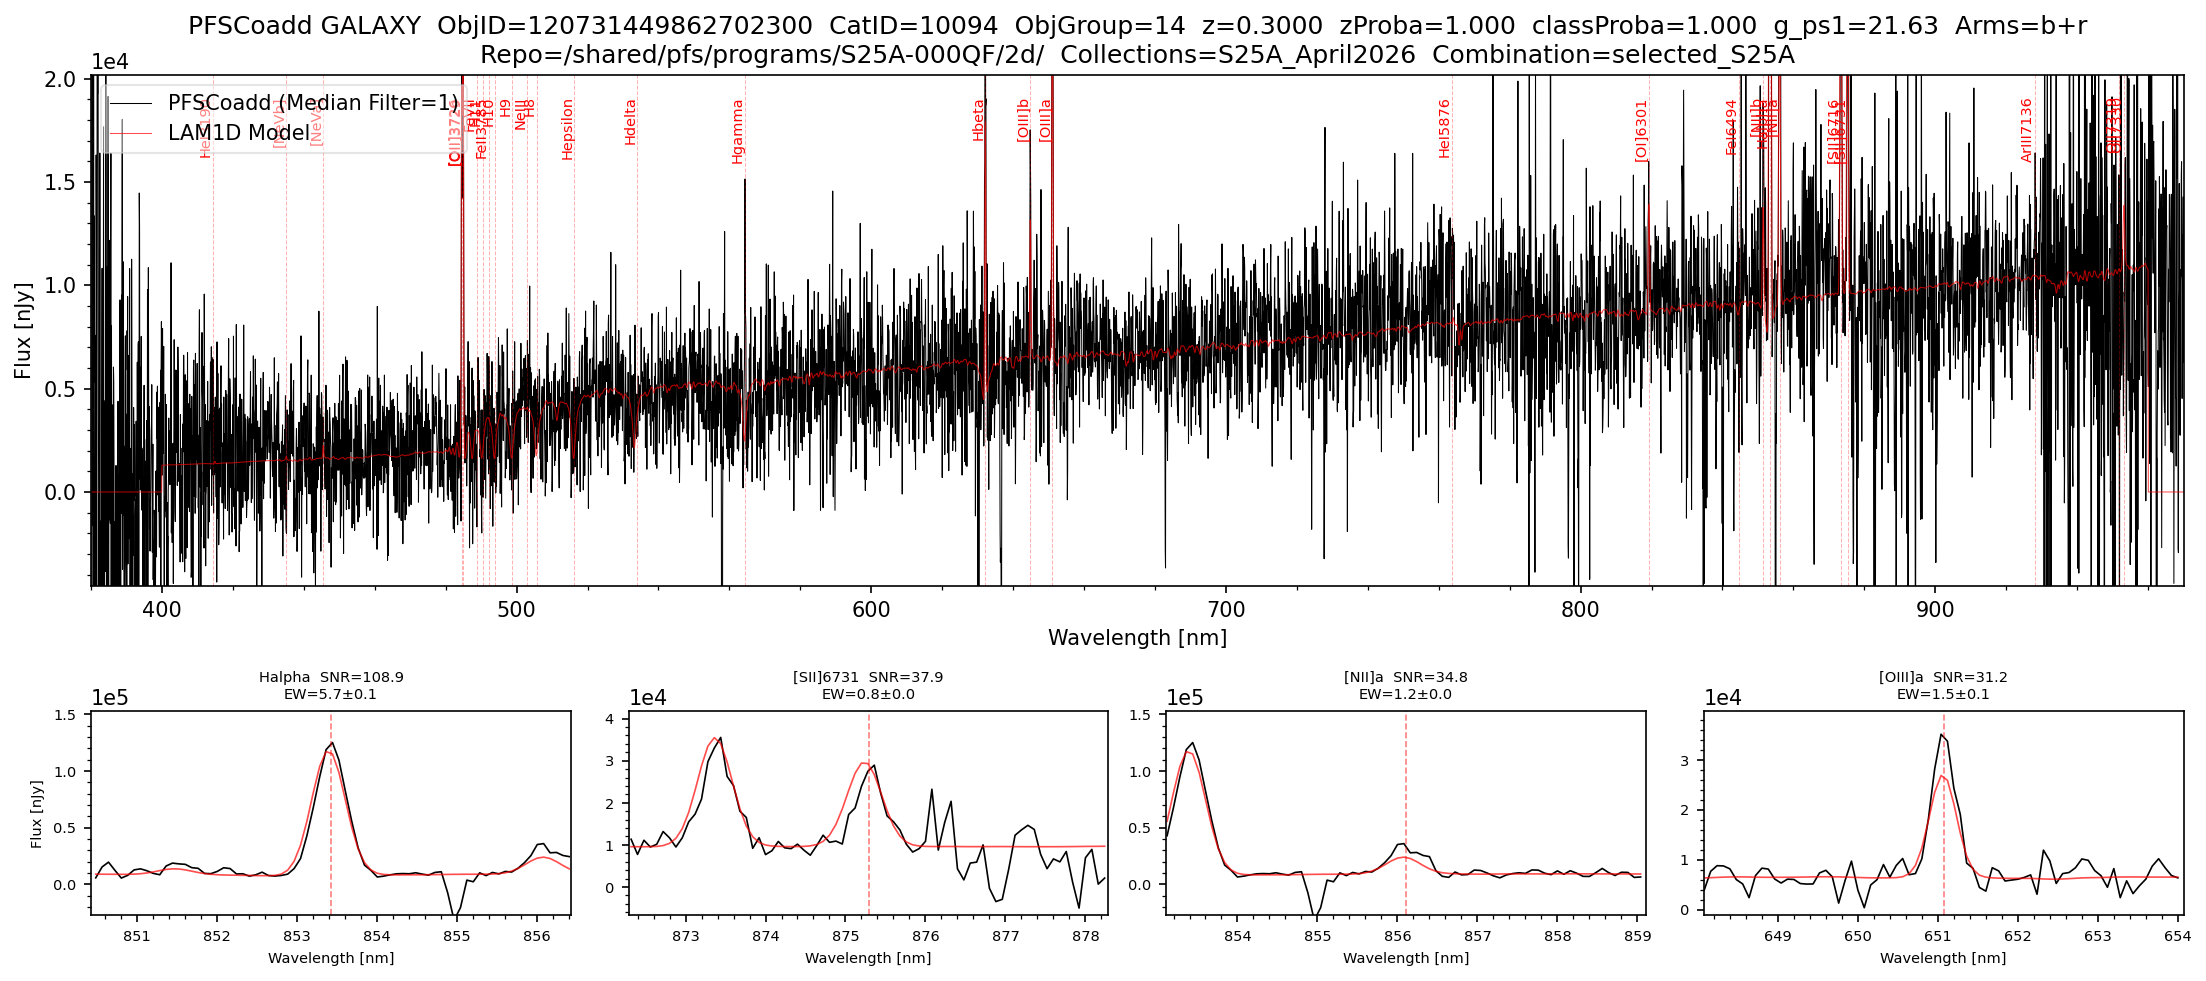
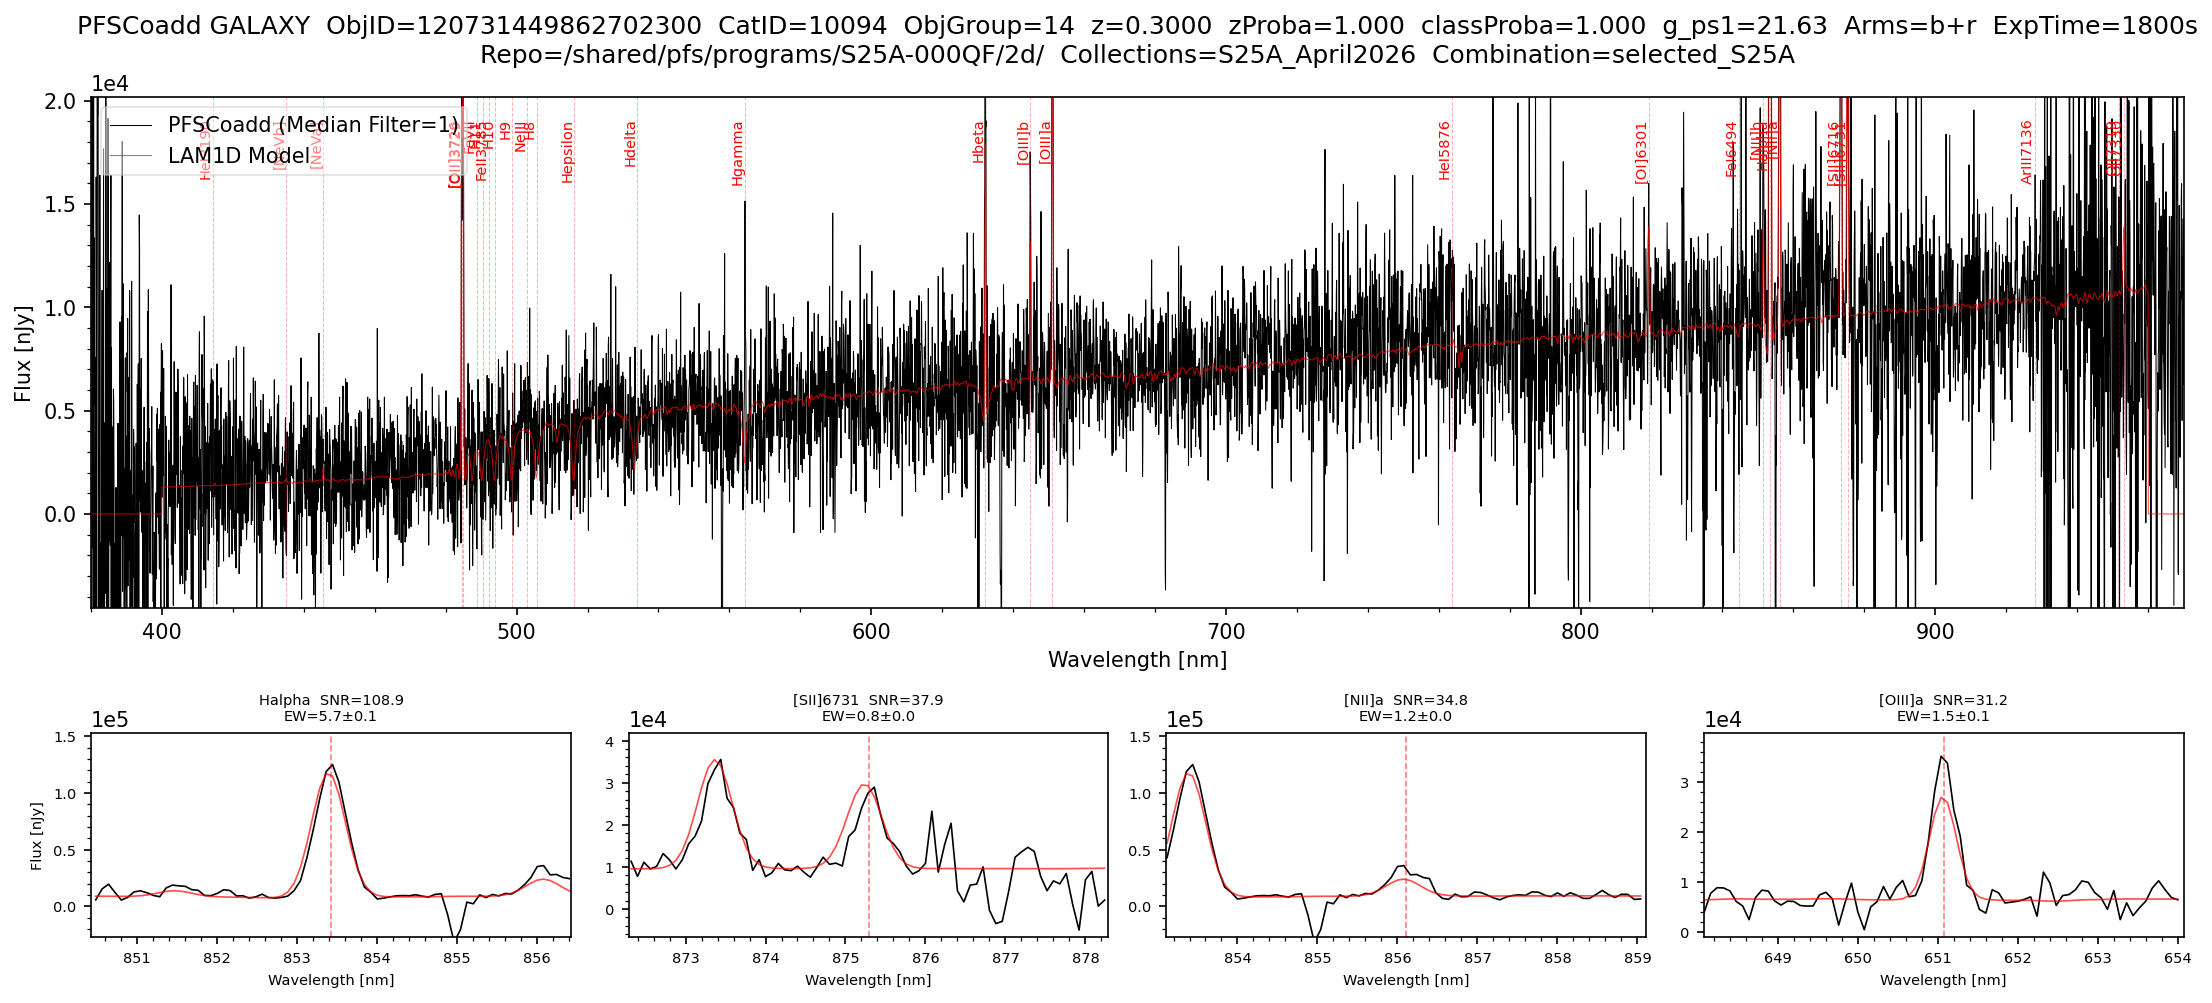
Update LAM1D coadd+lines figure and pfsMerged formatting
Refresh the GALAXY spectrum example figure; leave pfsCoadd.png unchanged
because the replacement file was blank.

diff --git a/docs/03_14_pfsmerged.md b/docs/03_14_pfsmerged.md
@@ -8,11 +8,12 @@ The format is identical to `pfsArm`, with two differences:
 
 - Flux units are **electrons per nm** (rather than electrons)
 - The `WAVELENGTH` array may be a single shared array applied to all fibers
-  (rather than one per fiber), if all fibers share the same wavelength sampling
+(rather than one per fiber), if all fibers share the same wavelength sampling
 
 Filename format: `pfsMerged_PFS_{visit}_{collection}.fits`
 
 Example from proposal `S25A-000QF`, visit 123476 on the Science Platform:
+
 ```
 /shared/pfs/programs/S25A-000QF/2d/S25A_April2026/pfsMerged/20250403/123476/
     pfsMerged_PFS_123476_S25A_April2026.fits
@@ -20,18 +21,22 @@ Example from proposal `S25A-000QF`, visit 123476 on the Science Platform:
 
 **FITS structure:**
 
-| HDU | Name | Type | Units | Dimensions |
-|-----|------|------|-------|------------|
-| #0 | PDU | Header | — | — |
-| #1 | FIBERID | Image | — | NFIBER |
-| #2 | WAVELENGTH | Image | nm (vacuum) | NROW × NFIBER (or NROW if shared) |
-| #3 | FLUX | Image | electrons/nm | NROW × NFIBER |
-| #4 | MASK | Image | bitmask | NROW × NFIBER |
-| #5 | SKY | Image | electrons/nm | NROW × NFIBER |
-| #6 | NORM | Image | electrons/nm | NROW × NFIBER |
-| #7 | COVAR | Image | (e/nm)² | NROW × 3 × NFIBER |
-| #8 | CONFIG | Binary table | — | 1 row (pfsDesignId, visit) |
-| #9 | NOTES | Binary table | — | NFIBER rows |
+
+| HDU | Name       | Type         | Units        | Dimensions                        |
+| --- | ---------- | ------------ | ------------ | --------------------------------- |
+| #0  | PDU        | Header       | —            | —                                 |
+| #1  | FIBERID    | Image        | —            | NFIBER                            |
+| #2  | WAVELENGTH | Image        | nm (vacuum)  | NROW × NFIBER (or NROW if shared) |
+| #3  | FLUX       | Image        | electrons/nm | NROW × NFIBER                     |
+| #4  | MASK       | Image        | bitmask      | NROW × NFIBER                     |
+| #5  | SKY        | Image        | electrons/nm | NROW × NFIBER                     |
+| #6  | NORM       | Image        | electrons/nm | NROW × NFIBER                     |
+| #7  | COVAR      | Image        | (e/nm)²      | NROW × 3 × NFIBER                 |
+| #8  | CONFIG     | Binary table | —            | 1 row (pfsDesignId, visit)        |
+| #9  | NOTES      | Binary table | —            | NFIBER rows                       |
+
+
+
 
 ## Viewing pfsMerged Spectra
 
